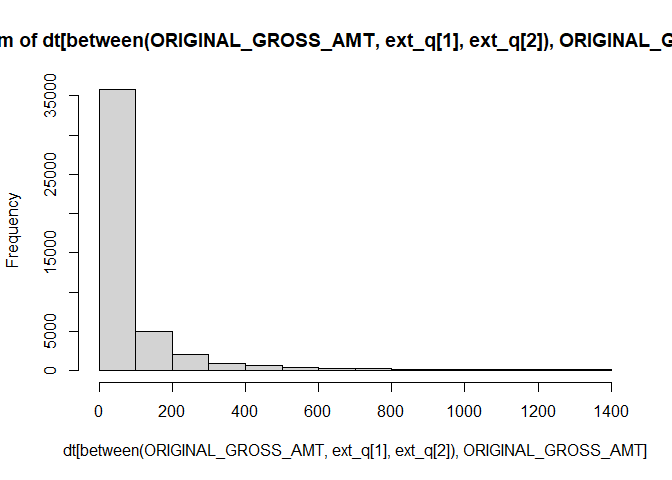
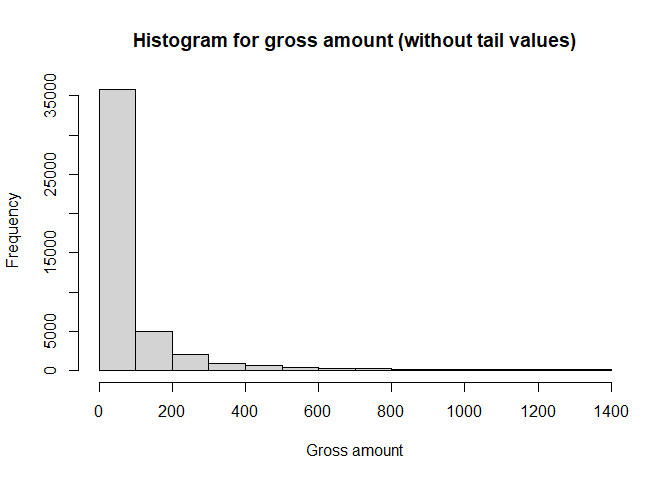
update document

Changed region(s): [[0.0, 0.0625, 1.0, 0.125], [0.0938, 0.9062, 0.9688, 0.9688]]

diff --git a/README.md b/README.md
@@ -30,6 +30,16 @@ distance and is not yet well implemented in a python package. The
 mathematical definition of this distance can be found
 [here](https://statisticaloddsandends.wordpress.com/2021/02/23/what-is-gowers-distance/).
 
+------------------------------------------------------------------------
+
+## Index
+
+[1. Data reading](#data-reading)  
+[2. Data cleaning](#data-cleaning)  
+[3. Data exploration](#data-exploration)
+
+------------------------------------------------------------------------
+
 ## Let’s get started
 
 We begin by setting some global configurations and loading required
@@ -56,7 +66,7 @@ library(xgboost)
 
 ------------------------------------------------------------------------
 
-#### Data reading
+### Data reading
 
 Then we read the data structure, get all files from the `data-csv`
 folder, also
@@ -107,7 +117,7 @@ head(dt, 3)
 
 ------------------------------------------------------------------------
 
-#### Data cleaning
+### Data cleaning
 
 We apply some treatments to data in order to make it more handleable.
 This includes, converting data types, changing formats, dropping
@@ -199,7 +209,7 @@ dt[ , ORIGINAL_GROSS_AMT := as.numeric(gsub(",", "", ORIGINAL_GROSS_AMT))]
 
 ------------------------------------------------------------------------
 
-#### Data exploration
+### Data exploration
 
 For the data exploration we don’t want pretty charts yet, just see how
 the data looks. We start with out only numeric column
@@ -207,7 +217,7 @@ the data looks. We start with out only numeric column
 simplest way is plotting a histogram:
 
 ``` r
-hist(dt[ , ORIGINAL_GROSS_AMT])
+hist(dt[ , ORIGINAL_GROSS_AMT], main = "Histogram for gross amount", xlab = "Gross amount")
 ```
 
 ![](README_files/figure-gfm/histogram-1.png)<!-- -->
@@ -217,13 +227,19 @@ data. So we limit our graph to be between the quantiles 5% and 95%
 
 ``` r
 ext_q <- quantile(dt[ , ORIGINAL_GROSS_AMT], probs = c(0.05, 0.95))
-hist(dt[between(ORIGINAL_GROSS_AMT, ext_q[1], ext_q[2]), ORIGINAL_GROSS_AMT])
+hist(dt[between(ORIGINAL_GROSS_AMT, ext_q[1], ext_q[2]), ORIGINAL_GROSS_AMT], 
+     main = "Histogram for gross amount (without tail values)", xlab = "Gross amount")
 ```
 
 ![](README_files/figure-gfm/quantiles_hist-1.png)<!-- -->
 
+We can see a right skewed distribution, similar to a decaying
+exponential.
+
+Now we will explore the categorical columns by checking the number of
+distinct values in each variable.
+
 ``` r
-#exploring number of distinct values in each column
 #we declare a function for unique values
 f <- function(x){
   length(unique(x))
@@ -238,17 +254,21 @@ apply(dt, MARGIN = 2, f)
     ##   TRANS_CAC_DESC_1   TRANS_CAC_DESC_2        DIRECTORATE 
     ##                125                888                 13
 
-``` r
-#we see that 
-#we have 370 different days with transactions
-#18083 different monetary amounts in transactions
-#6268 different merchants
-#1028 different card numbers (assuming 1028 different clients)
-#125 grouped type of business according to desc 1
-#888 grouped type of business according to desc 2
-#13 grouped type of business according to directorate
+We see that we have:
 
-#we show the 20 most frequent desc 2
+-   `370` distinct days with transactions
+-   `18,083` distinct monetary amounts in transactions
+-   `6,268` distinct merchant
+-   `1,028` distinct card numbers (and we can assume `1,028` distinct
+    clients)
+-   `125` distinct type of business according to `DESC_1`
+-   `888` distinct type of business according to `DESC_2`
+-   `13` distinct type of business according to `DIRECTORATE`
+
+We start with `TRANS_CAC_DESC_2` and show the 20 most frequent
+categories:
+
+``` r
 head(dt[ , .N, TRANS_CAC_DESC_2][order(N, decreasing = TRUE)], 20)
 ```
 
@@ -274,11 +294,17 @@ head(dt[ , .N, TRANS_CAC_DESC_2][order(N, decreasing = TRUE)], 20)
     ## 19:                                 Uffculme  309
     ## 20: International School & Community College  306
 
-``` r
-#we see that it is somehow related to institutions or schools but since we got no metadata and the are 88 categories we chose to drop it
-dt[ , TRANS_CAC_DESC_2 := NULL]
+where we can see that it is somehow related to institutions or schools
+but since we got no metadata and the are 88 categories we chose to drop
+it.
 
-#we show the 20 most frequent merchant names
+``` r
+dt[ , TRANS_CAC_DESC_2 := NULL]
+```
+
+Then, we continue with the 20 most frequent `MERCHANT_NAME`
+
+``` r
 head(dt[ , .N, MERCHANT_NAME][order(N, decreasing = TRUE)], 20)
 ```
 
